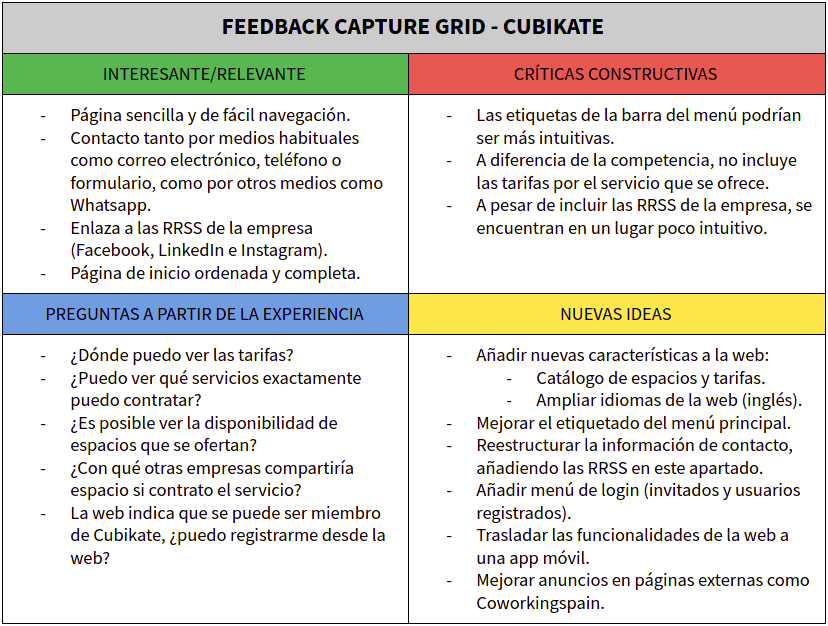
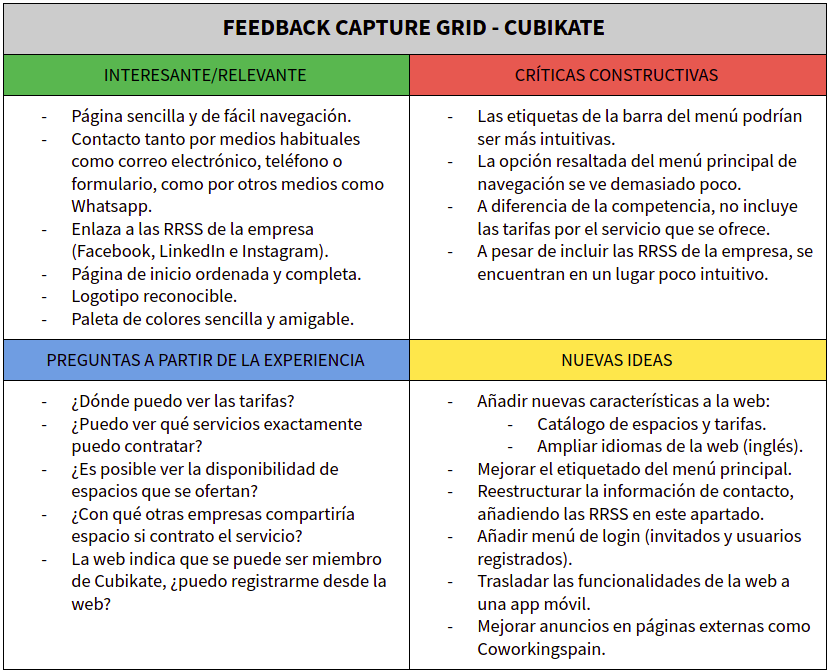
Feedback Capture Grid actualizado

diff --git a/Trabajo/README.md b/Trabajo/README.md
@@ -132,13 +132,31 @@ A continuación, para completar y poder analizar la información que hemos obten
 
 De este modo agruparemos toda la información que hemos obtenido hasta el momento, facilitando el análisis de los puntos fuertes y débiles de la web y ayudando a encontrar nuevas propuestas e ideas para mejorar la web y el servicio.
 
-
+![feedbackGrid](./img/feedback-grid.png)
 
 ---
 
 # Propuesta de valor
 
+A continuación vamos a realizar una serie de propuestas de mejora que dividiremos en propuestas de mejora UX para la web y otras propuestas de mejora. Además, remarcaremos cuales creemos que son imprescindibles en base al estudio que hemos realizado (se señalan en negrita).
 
+## Paso 7: Mejora UX
+
+### Mejora del diseño de la web
+
+- *De la navegabilidad web:* las etiquetas del menú principal no siempre llevan exactamente a la información que espera el usuario, por lo que sería conveniente modificar el etiquetado.
+
+- *Del apartado de contacto:** a pesar de que la web incluye las RRSS de la empresa, sería conveniente incluir esta información en el apartado de "Contacto".
+
+- ***De las opciones de idiomas:*** observando a la competencia y entrando en un mundo globalizado, con el fin de no perder potenciales clientes no hispano-parlantes, se propone añadir la opción de cambio de idioma a la web, al menos al inglés.
+
+### Mejora de la funcionalidad y características de la la web
+
+- ***Menú con catálogo de espacios y tarifas:*** observando a la competencia y basándonos en el mapa de experiencia del usuario que hemos creado, se observa la falta de un elemento imprescindible, y es información sobre las tarifas que ofrece la empresa.
+
+- *Calendario con disponibilidad*: esta funcionalidad se propone para facilitar la planificación de las empresas que deseen reservar los servicios y los espacios.
+
+- *Menú de login:* esta mejora se propone con el objetivo de crear comunidad, facilitando la sensación de pertenencia a Cubikate, inspirándonos en [Utopicus](https://www.utopicus.es/), una empresa de coworking a nivel nacional.
 
 ---
 
